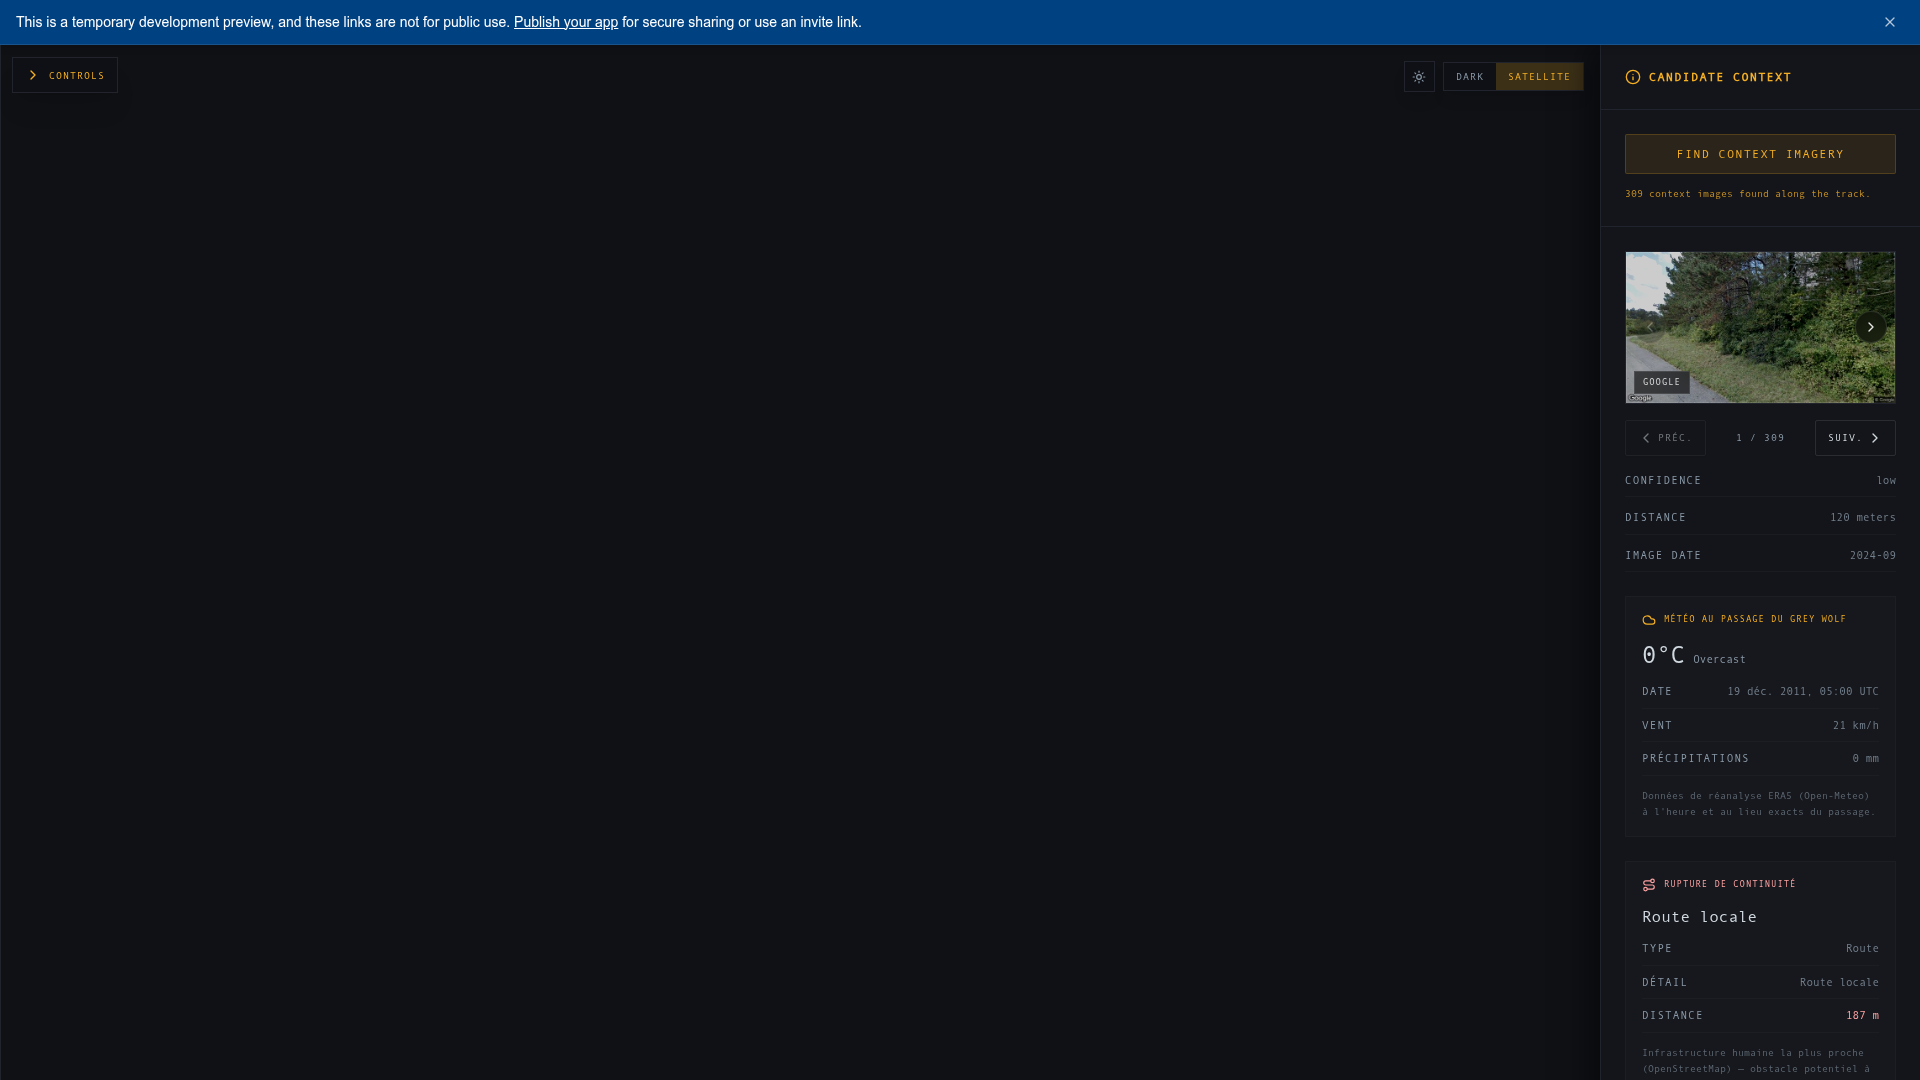
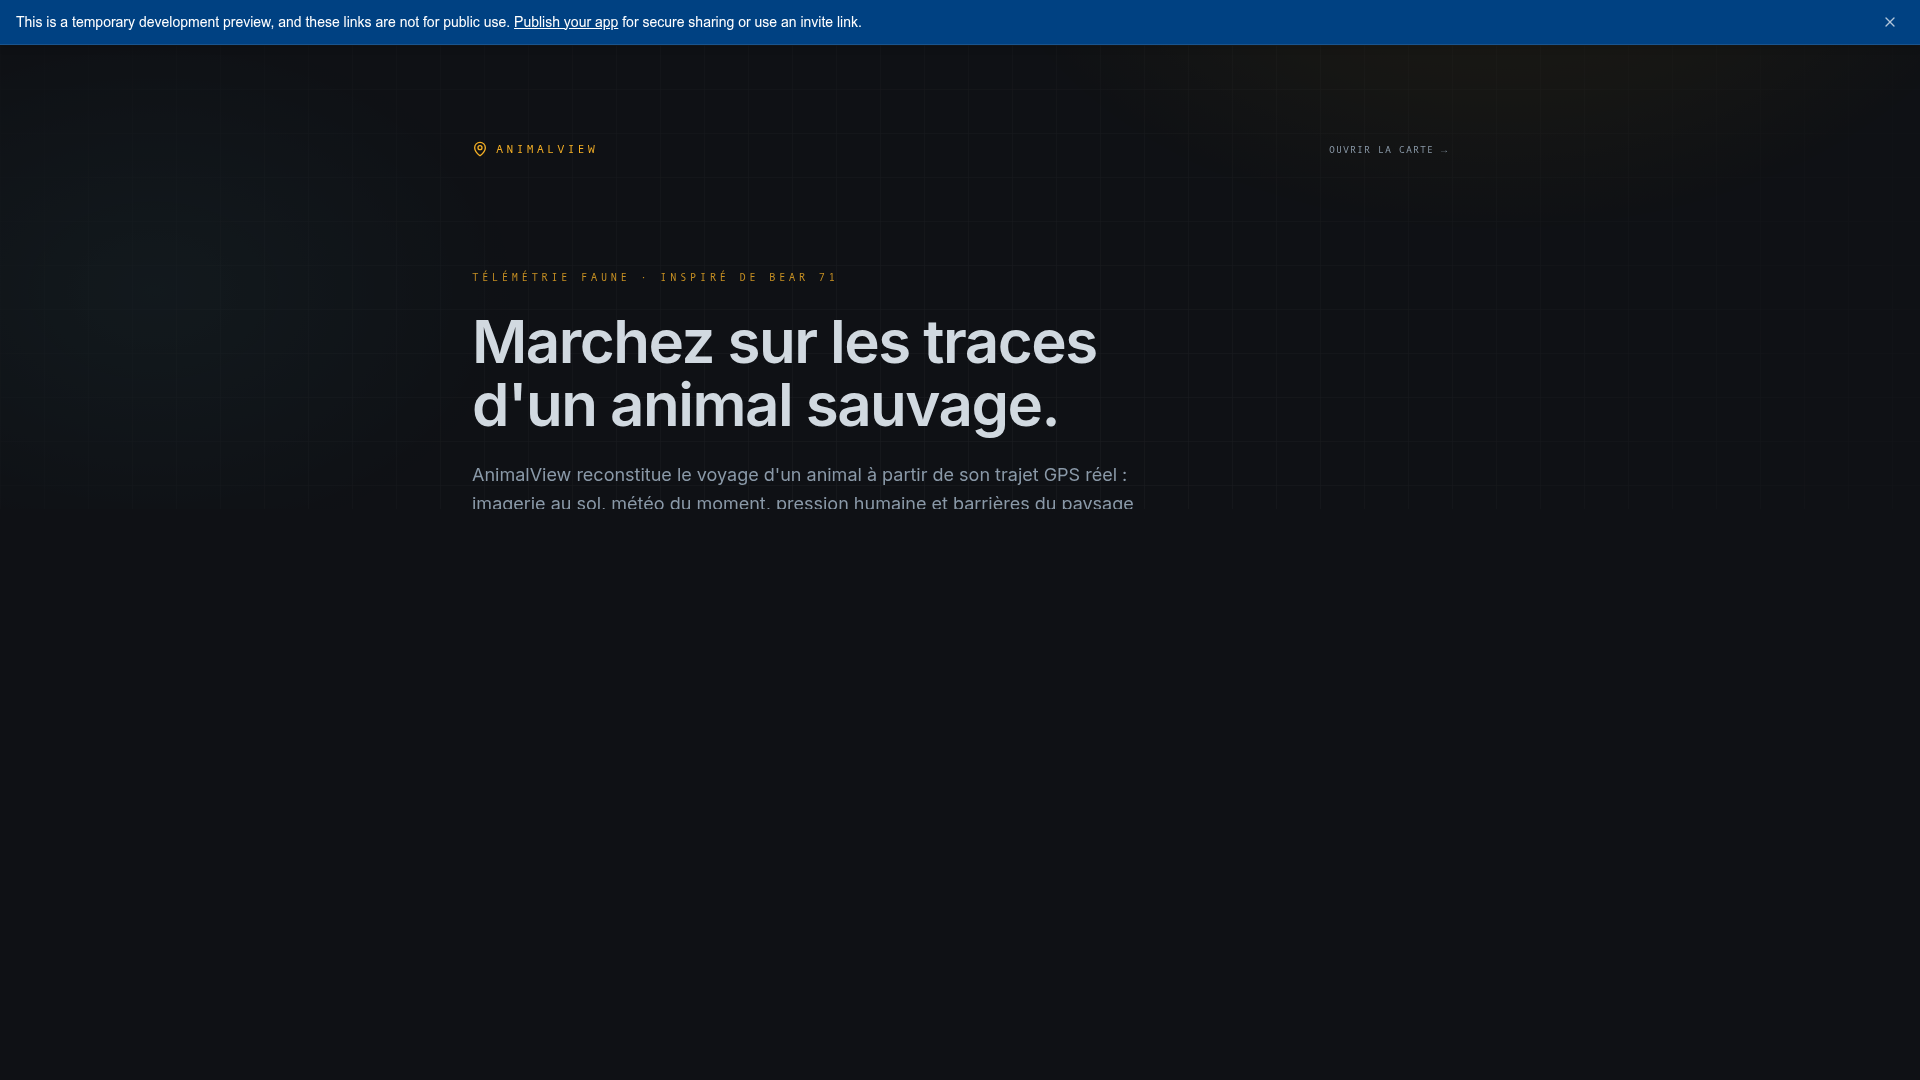
Add a new home page explaining the tool and update navigation
Create a new landing page routed to the root path. Update the map view to be accessible at `/explore`. Make the "AnimalView" title in the map sidebar a link back to the home page.

Replit-Commit-Author: Agent
Replit-Commit-Session-Id: 27fcc058-1e92-43da-b5f2-1e158d23f884
Replit-Commit-Checkpoint-Type: full_checkpoint
Replit-Commit-Event-Id: 8c62bed6-295f-4ba4-941e-3ab4538acdd0
Replit-Commit-Screenshot-Url: https://storage.googleapis.com/screenshot-production-us-central1/28f9a1ac-3591-4c18-9ab3-cc9936b376a3/27fcc058-1e92-43da-b5f2-1e158d23f884/AIyanIr
Replit-Helium-Checkpoint-Created: true

diff --git a/artifacts/animal-view/src/pages/landing.tsx b/artifacts/animal-view/src/pages/landing.tsx
@@ -1,0 +1,215 @@
+import { useEffect, useState } from "react";
+import { Link } from "wouter";
+import {
+  Footprints,
+  Camera,
+  Activity,
+  CircleDashed,
+  Crosshair,
+  CloudSun,
+  ArrowRight,
+  MapPin,
+  ShieldCheck,
+} from "lucide-react";
+
+const features = [
+  {
+    icon: Footprints,
+    title: "Rejouer le trajet",
+    body: "Suivez le parcours GPS réel d'un animal sur une carte sombre ou satellite, avec une timeline et une vitesse réglable.",
+  },
+  {
+    icon: Camera,
+    title: "Contexte visuel",
+    body: "À chaque point du trajet, l'app affiche de vraies photos au sol (Mapillary, Street View) proches de la position — ce que l'animal aurait pu voir.",
+  },
+  {
+    icon: Activity,
+    title: "Pression humaine",
+    body: "Une heatmap dérivée d'OpenStreetMap révèle sentiers, routes, remontées, refuges et zones bâties qui croisent les déplacements de l'animal.",
+  },
+  {
+    icon: CircleDashed,
+    title: "Corridor de 1 km",
+    body: "Un tampon d'un kilomètre matérialise la bande réellement traversée par l'animal et y restreint les données de présence humaine.",
+  },
+  {
+    icon: Crosshair,
+    title: "Mode simulation",
+    body: "Explorez des trajets plausibles générés sur un gradient d'habitat, avec barrières paysagères et lecture de l'obstacle le plus proche.",
+  },
+  {
+    icon: CloudSun,
+    title: "Météo & analyse",
+    body: "Conditions météo de réanalyse à l'heure et au lieu exacts du passage, et analyse de l'imagerie le long du parcours.",
+  },
+];
+
+const steps = [
+  {
+    n: "01",
+    title: "Choisir un animal",
+    body: "Sélectionnez une espèce, une étude de mouvement et un individu suivi parmi des jeux de données réels (ex. bouquetin alcotra-lemed-ibex, dispersion du loup Slavc).",
+  },
+  {
+    n: "02",
+    title: "Dérouler le voyage",
+    body: "Lancez la lecture animée du trajet et laissez le panneau de contexte reconstruire l'environnement traversé, point par point.",
+  },
+  {
+    n: "03",
+    title: "Lire le paysage",
+    body: "Croisez imagerie au sol, météo, pression humaine et barrières pour comprendre ce que l'animal a rencontré sur son chemin.",
+  },
+];
+
+export default function Landing() {
+  const [theme] = useState<"dark" | "light">(() => {
+    if (typeof window !== "undefined") {
+      const saved = window.localStorage.getItem("animalview-theme");
+      if (saved === "light" || saved === "dark") return saved;
+    }
+    return "dark";
+  });
+
+  useEffect(() => {
+    document.title = "AnimalView — Sur les traces d'un animal sauvage";
+  }, []);
+
+  return (
+    <div className={theme === "dark" ? "dark" : ""}>
+      <div className="relative min-h-screen w-full overflow-x-hidden bg-background text-foreground">
+        {/* Ambient backdrop */}
+        <div
+          className="pointer-events-none absolute inset-0 opacity-[0.5]"
+          style={{
+            background:
+              "radial-gradient(900px 600px at 78% -8%, rgba(234,179,8,0.16), transparent 60%), radial-gradient(700px 500px at 8% 12%, rgba(103,232,249,0.08), transparent 55%)",
+          }}
+        />
+        <div
+          className="pointer-events-none absolute inset-0 opacity-[0.06]"
+          style={{
+            backgroundImage:
+              "linear-gradient(rgba(255,255,255,0.6) 1px, transparent 1px), linear-gradient(90deg, rgba(255,255,255,0.6) 1px, transparent 1px)",
+            backgroundSize: "44px 44px",
+            maskImage: "radial-gradient(circle at 50% 30%, black, transparent 75%)",
+            WebkitMaskImage: "radial-gradient(circle at 50% 30%, black, transparent 75%)",
+          }}
+        />
+
+        <div className="relative mx-auto max-w-5xl px-6 py-16 sm:py-24">
+          {/* Header */}
+          <header className="flex items-center justify-between">
+            <div className="flex items-center gap-2 font-mono text-xs uppercase tracking-[0.25em] text-primary">
+              <MapPin className="h-4 w-4" />
+              AnimalView
+            </div>
+            <Link
+              href="/explore"
+              className="font-mono text-[10px] uppercase tracking-widest text-muted-foreground transition-colors hover:text-foreground"
+            >
+              Ouvrir la carte →
+            </Link>
+          </header>
+
+          {/* Hero */}
+          <section className="mt-20 sm:mt-28">
+            <p className="font-mono text-[11px] uppercase tracking-[0.3em] text-primary/80">
+              Télémétrie faune · inspiré de Bear&nbsp;71
+            </p>
+            <h1 className="mt-6 text-4xl font-semibold leading-[1.05] tracking-tight sm:text-6xl">
+              Marchez sur les traces
+              <br />
+              d'un animal sauvage.
+            </h1>
+            <p className="mt-6 max-w-2xl text-base leading-relaxed text-muted-foreground sm:text-lg">
+              AnimalView reconstitue le voyage d'un animal à partir de son trajet GPS réel : imagerie au
+              sol, météo du moment, pression humaine et barrières du paysage — pour voir le monde tel
+              qu'il a pu le traverser.
+            </p>
+
+            <div className="mt-10 flex flex-wrap items-center gap-4">
+              <Link
+                href="/explore"
+                className="group inline-flex items-center gap-2 rounded-sm bg-primary px-6 py-3 font-mono text-xs uppercase tracking-widest text-primary-foreground transition-all hover:opacity-90"
+              >
+                Entrer dans la carte
+                <ArrowRight className="h-4 w-4 transition-transform group-hover:translate-x-1" />
+              </Link>
+              <div className="inline-flex items-center gap-2 font-mono text-[10px] uppercase tracking-widest text-muted-foreground">
+                <ShieldCheck className="h-3.5 w-3.5 text-primary/70" />
+                Données réelles uniquement
+              </div>
+            </div>
+          </section>
+
+          {/* Features */}
+          <section className="mt-24">
+            <h2 className="font-mono text-xs uppercase tracking-[0.25em] text-muted-foreground">
+              Ce que fait l'outil
+            </h2>
+            <div className="mt-6 grid gap-px overflow-hidden rounded-sm border border-border bg-border sm:grid-cols-2 lg:grid-cols-3">
+              {features.map((f) => (
+                <div key={f.title} className="bg-background p-6 transition-colors hover:bg-foreground/[0.03]">
+                  <f.icon className="h-5 w-5 text-primary" />
+                  <h3 className="mt-4 text-sm font-semibold tracking-tight">{f.title}</h3>
+                  <p className="mt-2 text-sm leading-relaxed text-muted-foreground">{f.body}</p>
+                </div>
+              ))}
+            </div>
+          </section>
+
+          {/* How it works */}
+          <section className="mt-24">
+            <h2 className="font-mono text-xs uppercase tracking-[0.25em] text-muted-foreground">
+              Comment ça marche
+            </h2>
+            <div className="mt-6 grid gap-8 sm:grid-cols-3">
+              {steps.map((s) => (
+                <div key={s.n}>
+                  <div className="font-mono text-2xl font-semibold text-primary/40">{s.n}</div>
+                  <h3 className="mt-3 text-sm font-semibold tracking-tight">{s.title}</h3>
+                  <p className="mt-2 text-sm leading-relaxed text-muted-foreground">{s.body}</p>
+                </div>
+              ))}
+            </div>
+          </section>
+
+          {/* Ethos */}
+          <section className="mt-24 rounded-sm border border-primary/20 bg-primary/[0.04] p-8">
+            <div className="flex items-start gap-4">
+              <ShieldCheck className="mt-0.5 h-6 w-6 shrink-0 text-primary" />
+              <div>
+                <h3 className="text-sm font-semibold tracking-tight">Rien n'est inventé</h3>
+                <p className="mt-2 max-w-3xl text-sm leading-relaxed text-muted-foreground">
+                  AnimalView ne sert que des données réelles : trajets de mouvement publics, imagerie au
+                  sol existante et objets OpenStreetMap. Lorsqu'aucune donnée réelle n'existe pour un lieu,
+                  l'app n'affiche rien plutôt que d'inventer. Le mode simulation est clairement signalé
+                  comme hypothétique.
+                </p>
+              </div>
+            </div>
+          </section>
+
+          {/* CTA footer */}
+          <section className="mt-24 flex flex-col items-center text-center">
+            <h2 className="text-2xl font-semibold tracking-tight sm:text-3xl">
+              Prêt à suivre la piste ?
+            </h2>
+            <Link
+              href="/explore"
+              className="group mt-8 inline-flex items-center gap-2 rounded-sm bg-primary px-7 py-3 font-mono text-xs uppercase tracking-widest text-primary-foreground transition-all hover:opacity-90"
+            >
+              Entrer dans la carte
+              <ArrowRight className="h-4 w-4 transition-transform group-hover:translate-x-1" />
+            </Link>
+            <p className="mt-12 font-mono text-[10px] uppercase tracking-widest text-muted-foreground/60">
+              AnimalView · une approximation spatiale inspirée de Bear&nbsp;71
+            </p>
+          </section>
+        </div>
+      </div>
+    </div>
+  );
+}

diff --git a/artifacts/animal-view/src/App.tsx b/artifacts/animal-view/src/App.tsx
@@ -4,13 +4,15 @@ import { Toaster } from "@/components/ui/toaster";
 import { TooltipProvider } from "@/components/ui/tooltip";
 import NotFound from "@/pages/not-found";
 import Home from "@/pages/home";
+import Landing from "@/pages/landing";
 
 const queryClient = new QueryClient();
 
 function Router() {
   return (
     <Switch>
-      <Route path="/" component={Home} />
+      <Route path="/" component={Landing} />
+      <Route path="/explore" component={Home} />
       <Route component={NotFound} />
     </Switch>
   );

diff --git a/artifacts/animal-view/src/pages/home.tsx b/artifacts/animal-view/src/pages/home.tsx
@@ -1,4 +1,5 @@
 import { useState, useMemo, useEffect, useRef } from "react";
+import { Link } from "wouter";
 import Map, { Source, Layer, Marker, type MapRef } from "react-map-gl/maplibre";
 import maplibregl from "maplibre-gl";
 import "maplibre-gl/dist/maplibre-gl.css";
@@ -764,7 +765,7 @@ export default function Home() {
       >
         <div className="p-6 border-b border-border">
           <div className="flex items-start justify-between">
-            <h1 className="text-xl tracking-widest font-mono font-bold text-primary mb-1 uppercase">AnimalView</h1>
+            <Link href="/" className="text-xl tracking-widest font-mono font-bold text-primary mb-1 uppercase hover:opacity-80 transition-opacity">AnimalView</Link>
             <button
               type="button"
               onClick={() => setSidebarOpen(false)}